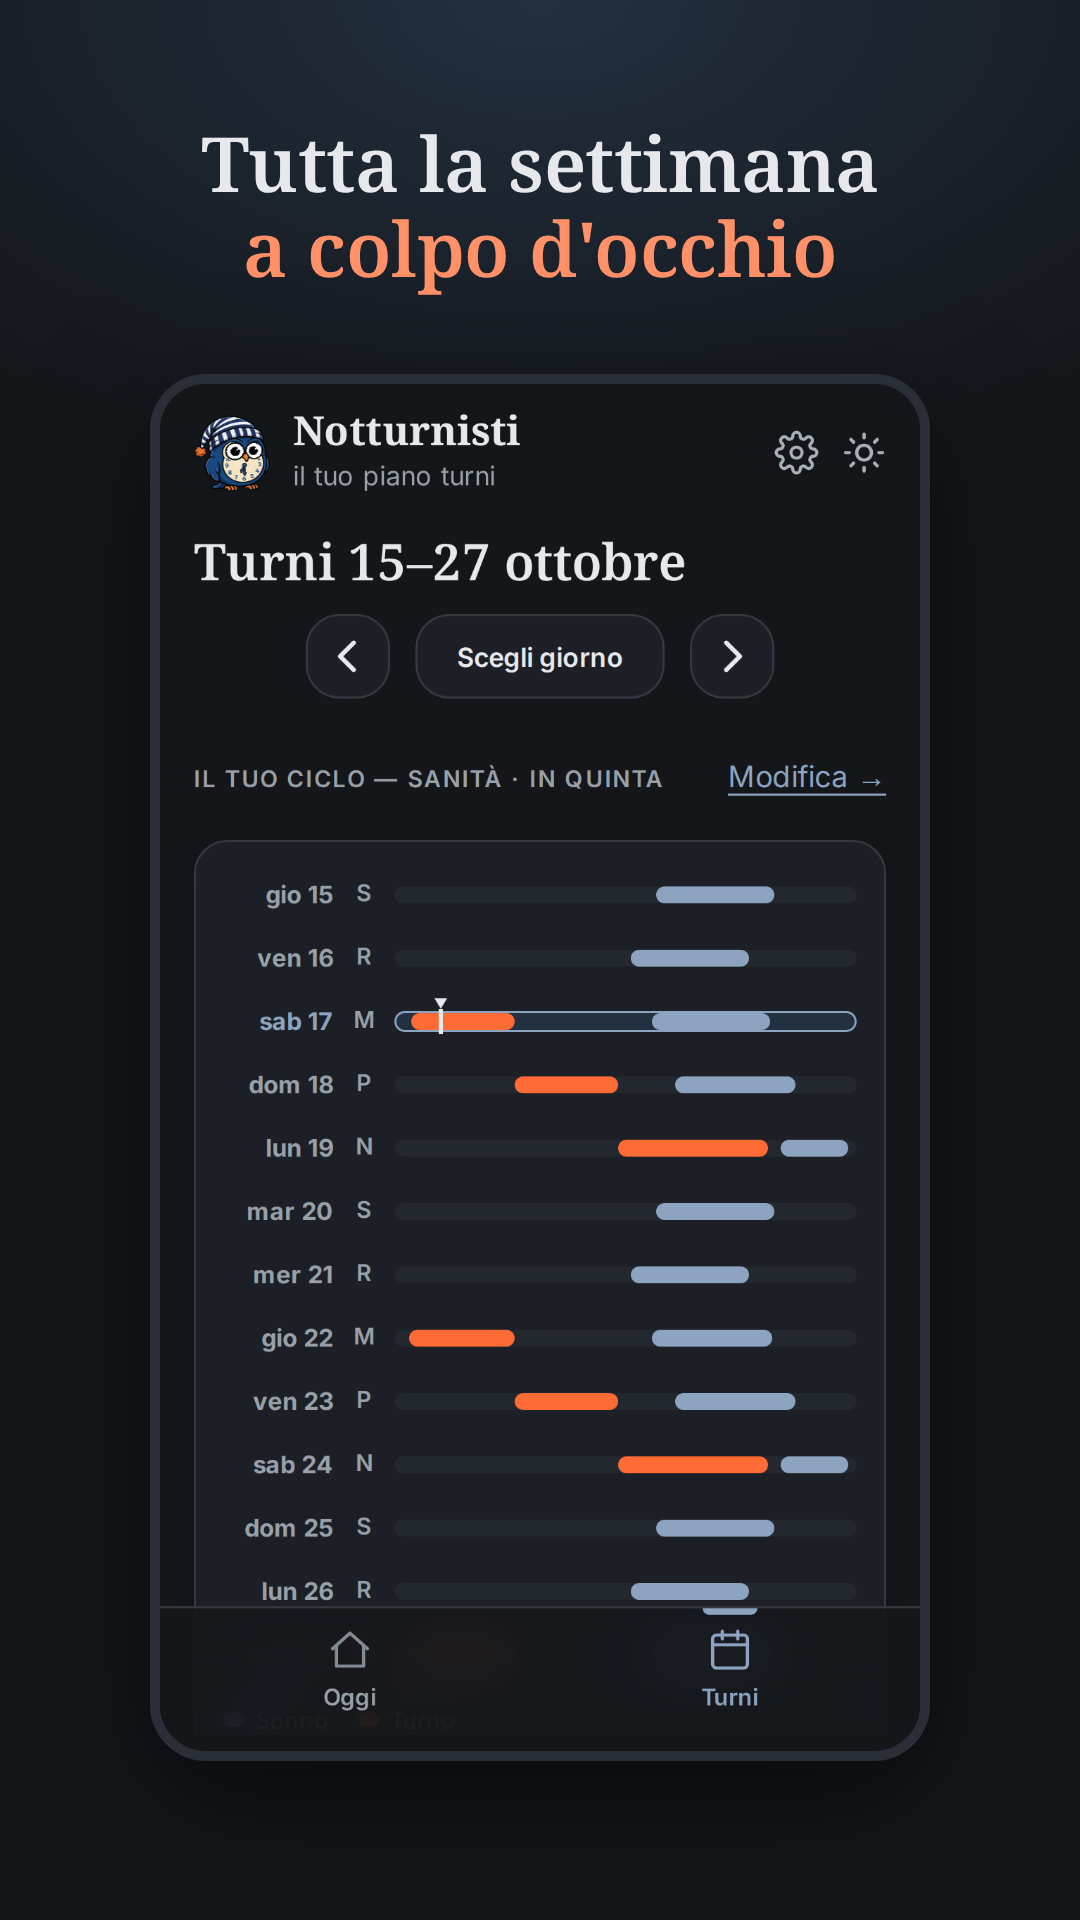
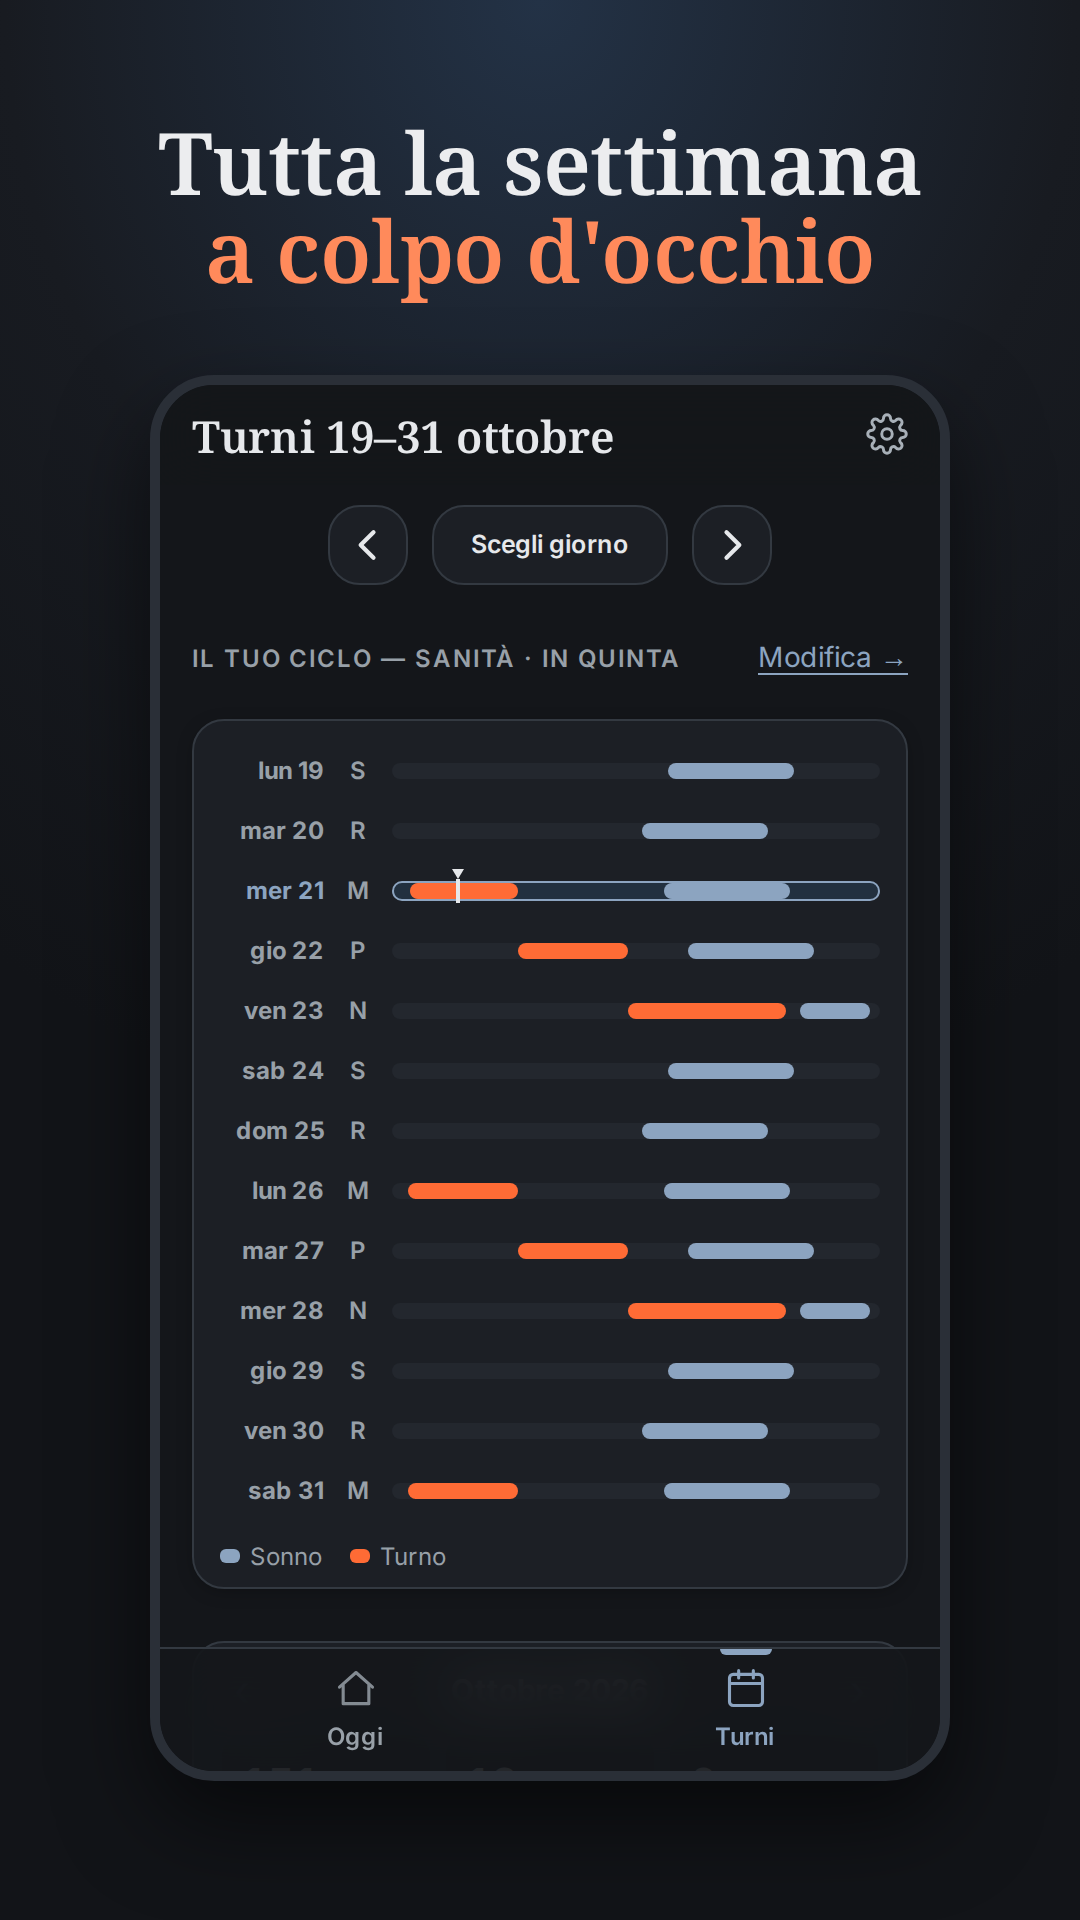
Adesso solo su oggi, screenshot dello Store rigenerati
- La scheda «Adesso» compare solo guardando oggi: sugli altri giorni
  parlava di un momento che non c'entrava.
- Script degli screenshot: orologio fermo alle 10, mese dei turni
  variabili pieno, lettura del file prima delle intestazioni.
- Screenshot 01-08 rigenerati con la nuova testata e «I tuoi turni».

Claude-Session: https://claude.ai/code/session_01R7d13vswTViiovv4LeTsYc

diff --git a/index.html b/index.html
@@ -865,6 +865,7 @@ padding:12px 6px 12px 14px;margin:-6px 0 var(--gap-sezione);font-size:13.5px;lin
 .essnudge{font-size:12.5px;color:var(--faint);margin-top:14px;line-height:1.55}
 .esshint{font-size:13px;color:var(--dim);margin:0 2px 10px}
 .ed-cambia{display:block;margin-top:10px;font-size:13px;text-align:left}
+#ora[hidden]{display:none}
 .essrischio{display:flex;align-items:flex-start;gap:10px;margin:0 0 10px;padding:11px 13px;border-radius:var(--r);background:var(--risk-soft);color:var(--ink);font-size:14px;line-height:1.45}
 .essrischio .eic{flex:none;color:var(--risk);display:flex}
 .essrischio .eic svg{width:18px;height:18px}
@@ -4252,14 +4253,12 @@ function votoOraRecente(){
 function renderOra(Pfocus){
   const el=$("#ora"); if(!el) return;
   if(state.vista==="dettaglio"){ el.innerHTML=""; return; }
-  let P=Pfocus;
   const vero = giornoVero();
-  const sfoglioAltrove = dnum(state.focus)!==dnum(vero);
-  if(sfoglioAltrove){
-    const f=state.focus; state.focus=vero;
-    try{ P=NT.plan(); }catch(e){ P=Pfocus; }
-    state.focus=f;
-  }
+  // «Adesso» parla del momento presente: su un altro giorno starebbe sotto una
+  // data e un turno che non sono i suoi. Lì il piano di quel giorno basta.
+  el.hidden = dnum(state.focus)!==dnum(vero);
+  if(el.hidden){ el.innerHTML=""; return; }
+  const P=Pfocus;
   const isToday = true;
   let r=null;
   const now = new Date();
